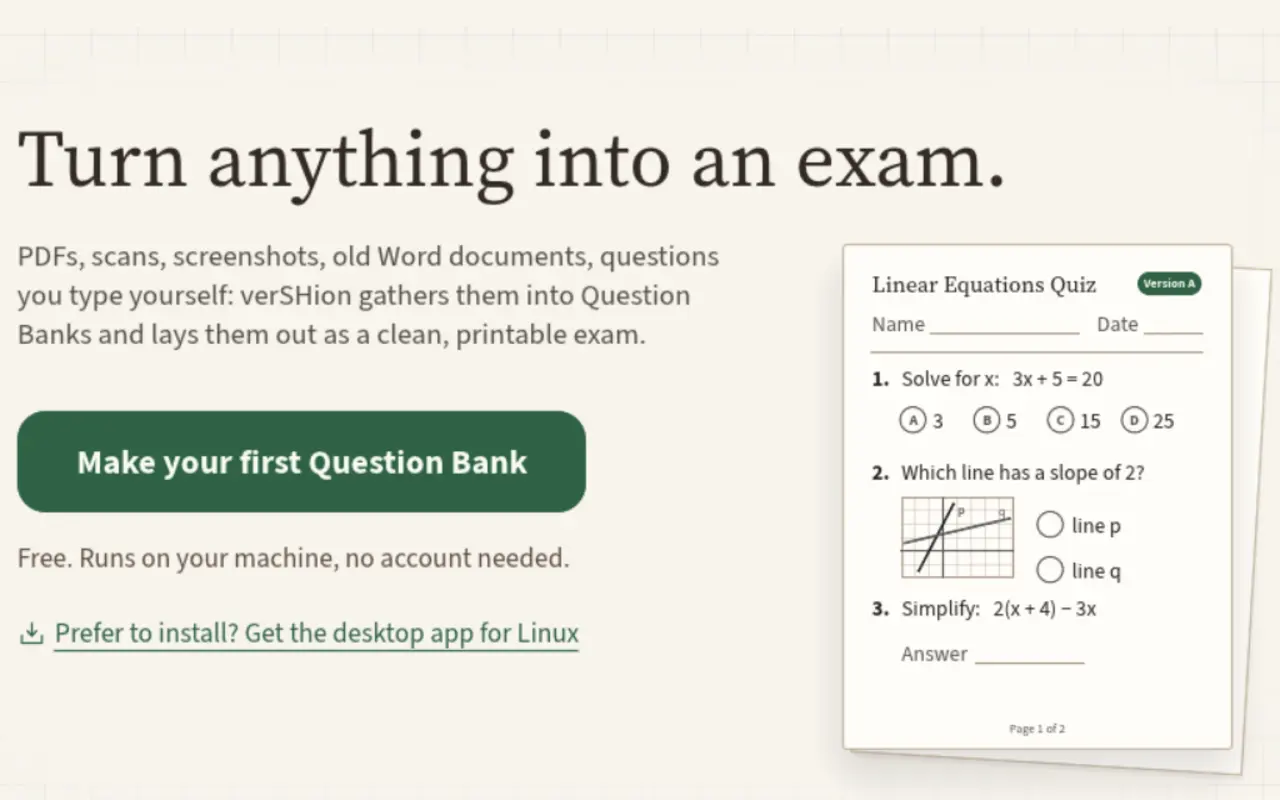
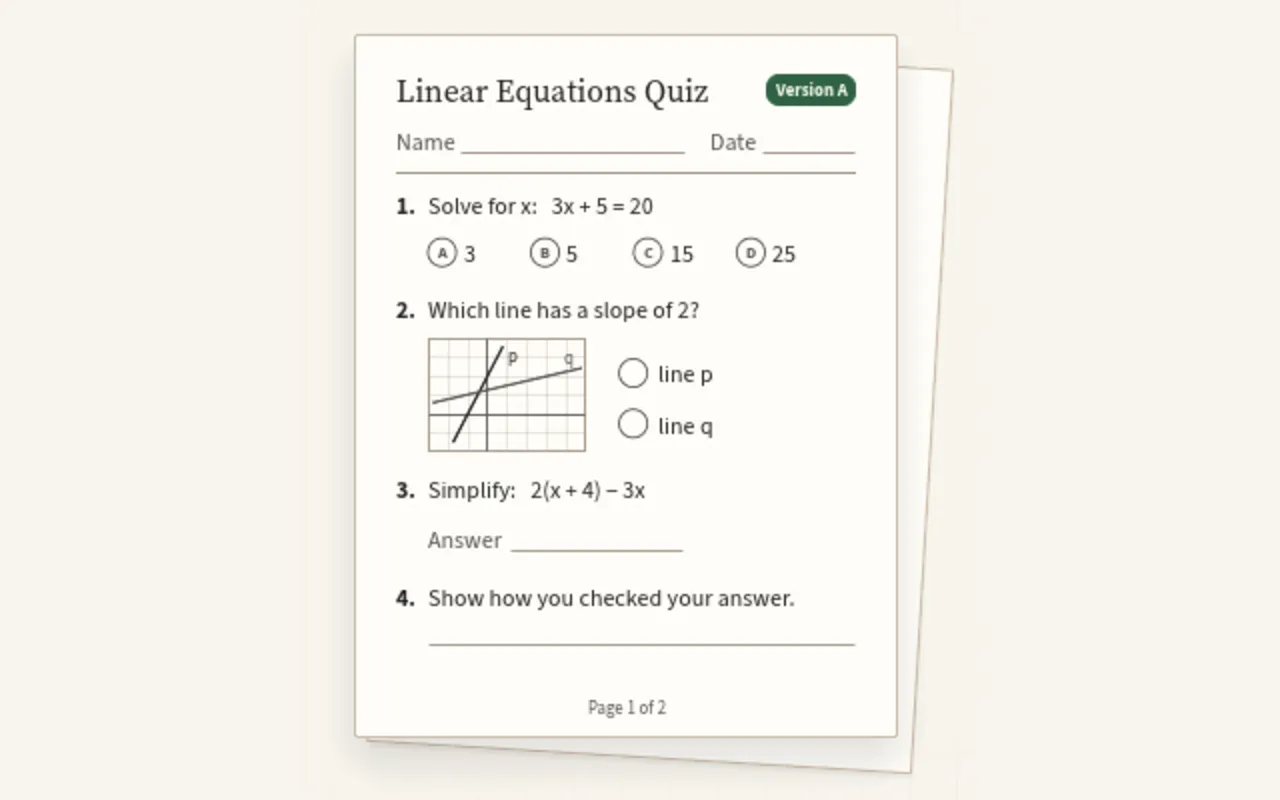
UI climb r12: quiz-only verSHion, single phone hero print, tighter copy
verSHion shows only its printed quiz (no competing in-image button), on
desktop and phones. Phones get one large readable hero print instead of
a cramped collage, a 2x2 one-line scorecard, separated answer-key
entries, and a full-width OfficeCraft report crop. Loose-leaf entries
are trimmed to one-line descriptions.

diff --git a/index.html b/index.html
@@ -157,7 +157,7 @@
     .stack:hover .p2 { transform: translate(12px, -4px); }
     .stack:hover .p3 { transform: translate(-4px, 10px); }
     .stack .note { position: absolute; right: 1%; top: 3%; font-size: 1.6rem; rotate: 5deg; z-index: 4; max-width: 9ch; text-align: right; }
-    @media (max-width: 899px) { .hero { gap: 1.75rem; padding-bottom: 2rem; } .stack { justify-self: center; aspect-ratio: 1.02; max-width: 360px; } .stack .note, .stack .p3 { display: none; } .stack .p1 { width: 74%; top: 5%; left: 2%; } .stack .p2 { width: 70%; top: 51%; right: 2%; } }
+    @media (max-width: 899px) { .hero { gap: 1.75rem; padding-bottom: 2rem; } .stack { justify-self: center; aspect-ratio: 1.02; max-width: 360px; } .stack { aspect-ratio: 1.45; } .stack .note, .stack .p2, .stack .p3 { display: none; } .stack .p1 { width: 92%; top: 7%; left: 4%; rotate: -2deg; } }
 
     /* Scorecard: the grade box in the corner of every test */
     .score {
@@ -172,7 +172,7 @@
     .score .grade { position: relative; }
     .score .grade .num { color: var(--red); }
     .score .grade .note { display: none; }
-    @media (max-width: 759px) { .score { display: flex; flex-wrap: wrap; gap: 0.35rem 1.1rem; padding: 0.75rem 1rem; margin-bottom: 2.5rem; } .score > div { padding: 0; border: 0; display: flex; align-items: baseline; gap: 0.35rem; } .score .num { display: inline; height: auto; font-size: 1.6rem; } .score .lbl { display: inline; margin: 0; font-size: 0.8rem; } }
+    @media (max-width: 759px) { .score { display: grid; grid-template-columns: 1fr 1fr; gap: 0.4rem 1rem; padding: 0.75rem 1rem; margin-bottom: 2.5rem; } .score > div { padding: 0; border: 0; display: flex; align-items: baseline; gap: 0.35rem; } .score .num { display: inline; height: auto; font-size: 1.6rem; } .score .lbl { display: inline; margin: 0; font-size: 0.8rem; } }
 
     /* Section titles */
     .sec-title { display: flex; align-items: baseline; gap: 1rem; flex-wrap: wrap; margin: 0 0 0.6rem; }
@@ -280,8 +280,8 @@
     .key .cards a { color: var(--red); font-weight: 600; text-decoration-thickness: 1.5px; text-underline-offset: 3px; }
     .key .cards a:hover { color: var(--ink); }
     @media (max-width: 759px) {
-      .key .cards { gap: 0; }
-      .key .cards li { background: none; border: 0; border-left: 3px solid var(--red); border-bottom: 1px dashed color-mix(in srgb, var(--ink) 30%, transparent); padding: 0.85rem 0 0.95rem 0.9rem; }
+      .key .cards { gap: 1.4rem; }
+      .key .cards li { background: none; border: 0; border-left: 3px solid var(--red); padding: 0.1rem 0 0.15rem 0.9rem; }
       .key .cards h3 { font-size: 1.15rem; margin-bottom: 0.3rem; }
     }
     footer { border-top: 2px solid var(--ink); padding: 1.5rem 0 3rem; display: grid; grid-template-columns: 1fr; gap: 0.75rem; align-items: baseline; font-family: var(--mono); font-size: 0.9rem; color: var(--ink-soft); }
@@ -378,7 +378,7 @@
           </article>
 
           <article class="prob s3 reveal" data-cat="class">
-            <figure class="print"><picture><source media="(max-width: 759px)" srcset="img/vershion-phone.webp"><img style="--ar: 4 / 3" src="img/vershion-card.webp" width="1280" height="800" loading="lazy" alt="verSHion: Turn anything into an exam, beside a printed linear equations quiz."></picture><figcaption class="strip"><span class="stamp live">Live</span><span class="note" aria-hidden="true">version A, version B.</span></figcaption></figure>
+            <figure class="print"><picture><source media="(max-width: 759px)" srcset="img/vershion-phone.webp"><img style="--ar: 1 / 1" src="img/vershion-card.webp" width="1280" height="800" loading="lazy" alt="A printed linear equations quiz laid out by verSHion, with multiple choice, a graph question and a show-your-work line."></picture><figcaption class="strip"><span class="stamp live">Live</span><span class="note" aria-hidden="true">version A, version B.</span></figcaption></figure>
             <div class="head"><span class="n">3.</span><h3><a href="https://vershion.lefthanddev.com/">ver<span class="sh">SH</span>ion</a></h3></div>
             <p><strong class="lead">Question banks in, printed tests out.</strong> Old PDFs, scans, screenshots and Word docs become clean exams with shuffled versions and an answer key.</p>
             <span class="given"><b>Given:</b> Rust, egui, WebAssembly</span>
@@ -455,25 +455,25 @@
         <div class="ll-group" data-cat="class">
           <h3 class="grp">The classroom</h3>
           <ol class="looseleaf">
-            <li><span class="n">12.</span><div class="nm"><h3><a href="https://github.com/shuff57/transformaSHion">transforma<span class="sh">SH</span>ion<span class="arr" aria-hidden="true"> &#8599;</span></a></h3></div><p>Tracing paper over a coordinate grid. Slide, turn and flip it. It never names the move, because that is the student's job.</p></li>
-            <li><span class="n">13.</span><div class="nm"><h3><a href="https://github.com/shuff57/tenshion">ten<span class="sh">SH</span>ion<span class="arr" aria-hidden="true"> &#8599;</span></a></h3></div><p>A diagnostic that tells "can't start" from "won't start" from "doesn't know enough yet," and catches reading versus rushing.</p></li>
-            <li><span class="n">14.</span><div class="nm"><h3><a href="https://github.com/shuff57/O.G.R.E-OllamaGradingRubricEvaluator">O.G.R.E<span class="arr" aria-hidden="true"> &#8599;</span></a></h3></div><p>Grades 30 written responses in minutes on a fine-tuned local model. Student data never touches a cloud.</p></li>
-            <li><span class="n">15.</span><div class="nm"><h3><a href="https://github.com/shuff57/viSHion">vi<span class="sh">SH</span>ion<span class="arr" aria-hidden="true"> &#8599;</span></a></h3></div><p>Handwriting OCR for stacks of student pages, on a local llama.cpp vision server. One HTML file, no build.</p></li>
-            <li><span class="n">16.</span><div class="nm"><h3><a href="https://github.com/shuff57/syllabus-quickref">syllabus-quickref<span class="arr" aria-hidden="true"> &#8599;</span></a></h3></div><p>The syllabus a student reads in ninety seconds and a parent searches in ten. Every fact traces back to the source.</p></li>
+            <li><span class="n">12.</span><div class="nm"><h3><a href="https://github.com/shuff57/transformaSHion">transforma<span class="sh">SH</span>ion<span class="arr" aria-hidden="true"> &#8599;</span></a></h3></div><p>Slide, turn and flip tracing paper over a grid. Naming the move is the student&#8217;s job.</p></li>
+            <li><span class="n">13.</span><div class="nm"><h3><a href="https://github.com/shuff57/tenshion">ten<span class="sh">SH</span>ion<span class="arr" aria-hidden="true"> &#8599;</span></a></h3></div><p>A diagnostic that tells can&#8217;t-start from won&#8217;t-start, and reading from rushing.</p></li>
+            <li><span class="n">14.</span><div class="nm"><h3><a href="https://github.com/shuff57/O.G.R.E-OllamaGradingRubricEvaluator">O.G.R.E<span class="arr" aria-hidden="true"> &#8599;</span></a></h3></div><p>Grades 30 written responses in minutes on a local model. No cloud.</p></li>
+            <li><span class="n">15.</span><div class="nm"><h3><a href="https://github.com/shuff57/viSHion">vi<span class="sh">SH</span>ion<span class="arr" aria-hidden="true"> &#8599;</span></a></h3></div><p>Handwriting OCR for stacks of student pages, on a local vision server.</p></li>
+            <li><span class="n">16.</span><div class="nm"><h3><a href="https://github.com/shuff57/syllabus-quickref">syllabus-quickref<span class="arr" aria-hidden="true"> &#8599;</span></a></h3></div><p>Turns a syllabus into one page a student reads in ninety seconds.</p></li>
           </ol>
         </div>
         <div class="ll-group" data-cat="make">
           <h3 class="grp">Math &amp; making</h3>
           <ol class="looseleaf">
-            <li><span class="n">17.</span><div class="nm"><h3><a href="https://github.com/shuff57/reshape-cad">re<span class="sh">SH</span>ape CAD<span class="arr" aria-hidden="true"> &#8599;</span></a></h3></div><p>CAD in plain words, on its own B-rep kernel in Rust. A shape it can't build yet is refused in a sentence and never faked.</p></li>
-            <li><span class="n">18.</span><div class="nm"><h3><a href="https://github.com/shuff57/reSHape">re<span class="sh">SH</span>ape<span class="arr" aria-hidden="true"> &#8599;</span></a></h3></div><p>Turns STL and 3MF meshes of machined parts back into STEP solids with true analytic geometry.</p></li>
+            <li><span class="n">17.</span><div class="nm"><h3><a href="https://github.com/shuff57/reshape-cad">re<span class="sh">SH</span>ape CAD<span class="arr" aria-hidden="true"> &#8599;</span></a></h3></div><p>Plain-words CAD on its own Rust B-rep kernel. It refuses what it can&#8217;t build.</p></li>
+            <li><span class="n">18.</span><div class="nm"><h3><a href="https://github.com/shuff57/reSHape">re<span class="sh">SH</span>ape<span class="arr" aria-hidden="true"> &#8599;</span></a></h3></div><p>Turns STL and 3MF meshes back into STEP solids with true geometry.</p></li>
           </ol>
         </div>
         <div class="ll-group" data-cat="lab">
           <h3 class="grp">Home lab</h3>
           <ol class="looseleaf">
-            <li><span class="n">19.</span><div class="nm"><h3><a href="https://github.com/shuff57/roku-lhd-launcher">LHD Launcher<span class="arr" aria-hidden="true"> &#8599;</span></a></h3></div><p>A motion-forward home screen and photo screensaver for Roku TV. No root and no firmware flashing.</p></li>
-            <li><span class="n">20.</span><div class="nm"><h3><a href="https://github.com/shuff57/agent-evo">Agent-Evo<span class="arr" aria-hidden="true"> &#8599;</span></a></h3></div><p>The agent framework behind the rest of this page. It reads how a session went and proposes small edits to itself.</p></li>
+            <li><span class="n">19.</span><div class="nm"><h3><a href="https://github.com/shuff57/roku-lhd-launcher">LHD Launcher<span class="arr" aria-hidden="true"> &#8599;</span></a></h3></div><p>A motion-forward home screen and photo screensaver for Roku TV.</p></li>
+            <li><span class="n">20.</span><div class="nm"><h3><a href="https://github.com/shuff57/agent-evo">Agent-Evo<span class="arr" aria-hidden="true"> &#8599;</span></a></h3></div><p>The agent framework behind this page. It edits itself after each session.</p></li>
           </ol>
         </div>
       </section>
